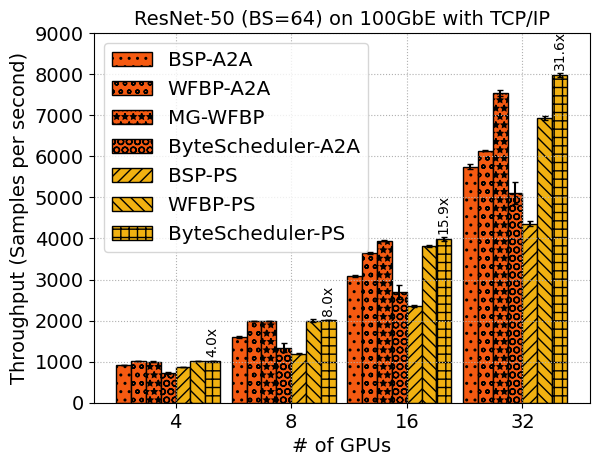
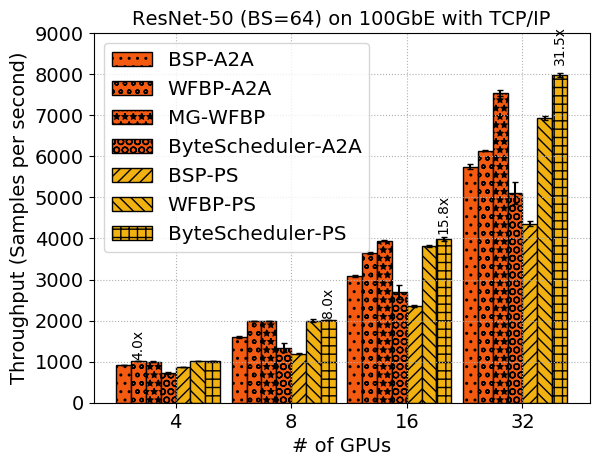
revise plot scripts

diff --git a/plots.py b/plots.py
@@ -97,14 +97,13 @@ single_throughputs = {
         'bert_8': 49,
         'bert_base_64': 212.8
         }
-candidate_texts = {}
 
 def update_fontsize(ax, fontsize=12.):
     for item in ([ax.title, ax.xaxis.label, ax.yaxis.label] +
                              ax.get_xticklabels() + ax.get_yticklabels()):
                 item.set_fontsize(fontsize)
 
-def record_rects(rects, task_str):
+def record_rects(rects, task_str, candidate_texts):
     single_throughput = single_throughputs[task_str]
     for i, rect in enumerate(rects):
         height = rect.get_height()
@@ -124,7 +123,7 @@ def autolabel(multi_rects, ax):
         rect = multi_rects[k][1]
         value = multi_rects[k][0] 
         height = rect.get_height()
-        ax.text(rect.get_x() + rect.get_width()/2., height+100.0,
+        ax.text(rect.get_x() + rect.get_width()/2., height*1.03,
                 '%.1fx' % value,
                 ha='center', va='bottom', rotation=90)
 
@@ -224,13 +223,14 @@ def plots(rdma, task, OUTPUT_PATH, title=None):
     ind = np.arange(ngroups)
 
     bars = []
+    candidate_texts = {}
     for i, method in enumerate(methods):
         values = [mean for mean, std in data[method]][:ngroups]
         errs = [std for mean, std in data[method]][:ngroups]
         color = METHOD_COLORS[method]
         hatch = METHOD_HACHES[method]
         bar = ax.bar(ind-bar_width*len(methods)/2, values, bar_width, yerr=errs, color=color, edgecolor='black', hatch=hatch, ecolor='black', capsize=2)
-        record_rects(bar, task)
+        record_rects(bar, task, candidate_texts)
         #bar = ax.bar(ind, values, bar_width, edgecolor='black', hatch=HATCH[i%len(methods)])
         ind = ind + bar_width
         bars.append(bar)
@@ -256,9 +256,9 @@ def plots(rdma, task, OUTPUT_PATH, title=None):
     else:
         ax.set_ylim(top=9000)
     update_fontsize(ax, 14)
-    #plt.show()
     filename = '%s-rdma%d.png'%(task,rdma)
     plt.savefig(os.path.join(OUTPUT_PATH, filename), bbox_inches='tight')
+    #plt.show()
     return filename
 
 def generate_result(folder):
@@ -314,6 +314,6 @@ def generate_result(folder):
 
 
 if __name__ == '__main__':
-    #plots(0, 'resnet50_64', OUTPUT_PATH)
+    #plots(1, 'bert_base_64', OUTPUT_PATH)
     #compare_rdma()
     generate_result('./results')
